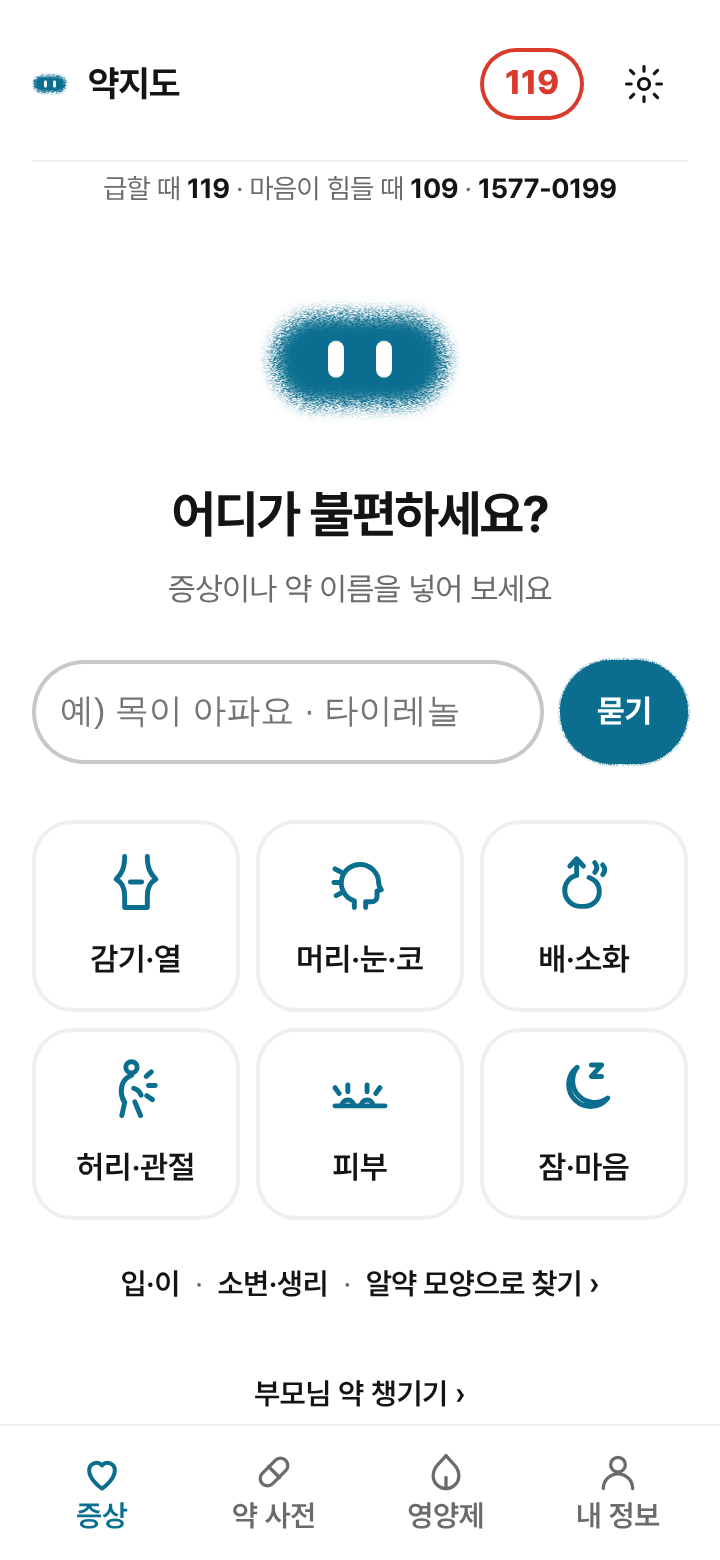
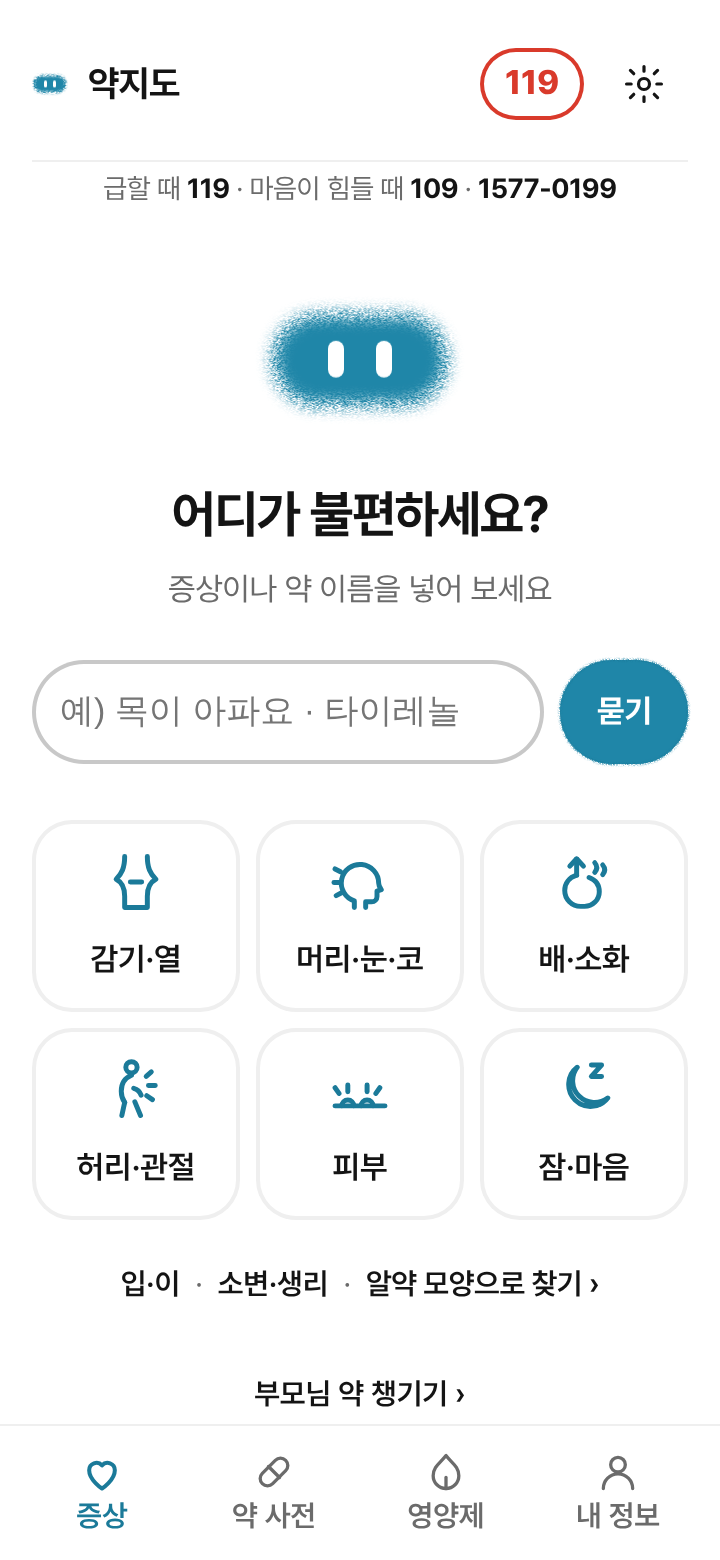
약지도 한가족: 잉크 판 처음 온 분 안내 화면 없이 첫 화면 · 강조색 #1B7A99·얼굴 #1F86A8 · 약관 링크 44px · design 첫 실행 시험 잉크/옛 판 나눔 — design 결함 0(두 판)
Claude-Session: https://claude.ai/code/session_01EnA5kC7cG7NGAyuaz7gY2Z

Changed region(s): [[0.7639, 0.4, 0.9472, 0.4923], [0.3972, 0.1846, 0.6111, 0.2769], [0.0611, 0.0308, 0.0917, 0.0615]]

diff --git a/yakjido/app-shell.html b/yakjido/app-shell.html
@@ -8074,7 +8074,7 @@ window.동의하기 = () => {
   let n = ''; try { n = sessionStorage.getItem(CONSENT_NEXT) || ''; sessionStorage.removeItem(CONSENT_NEXT); } catch (e) {}
   if (/^(consent|doc|login)(\/|\?|$)/.test(n)) n = '';
   HIST.length = 0;   /* 뒤로 가기가 동의 화면으로 돌아가지 않게 */
-  const to = n || (helloDone() ? 'home' : 'hello/1');
+  const to = n || (helloDone() || document.documentElement.classList.contains('ink') ? 'home' : 'hello/1');
   try { location.replace(location.href.split('#')[0] + '#/' + to); } catch (e) { go('/' + to); }
 };
 const 동의줄 = (k, t, s, L, 링크) => `<div class="cs-item"><button type="button" class="cs-row" role="checkbox" aria-checked="${!!동의칸[k]}" data-k="${k}" onclick="동의누름('${k}')"><span class="cs-bx">${I.check}</span><span class="cs-tx"><b><span class="cs-tag">필수</span>${t}</b><span>${s}</span></span></button>
@@ -8135,7 +8135,7 @@ const 잠김 = k => !!(window.구독 && !구독.열림(k));
 function 진료장(){ if (잠김('visitdoc')) { let n = 0; try { n = +localStorage.getItem('yakjido.visitdoc.n') || 0; } catch (e) {} if (n >= 1) return 구독.막힘('visitdoc'); try { localStorage.setItem('yakjido.visitdoc.n', String(n + 1)); } catch (e) {} } window.print(); }
 
 /* ───────── 시작 ───────── */
-try { if (!helloDone() && !location.hash) { location.hash = '#/hello/1'; } } catch (e) {}
+try { if (!helloDone() && !location.hash && !document.documentElement.classList.contains('ink')) { location.hash = '#/hello/1'; } } catch (e) {}   /* 11-17 한가족 §4 — 잉크 판은 안내 화면 없이 첫 화면부터 */
 /* 앱을 열 때 오늘 계획을 기록에 적고, 60일 지난 것을 치운다 */
 try { rollDay(); } catch (e) {}
 try { nativeInit(); } catch (e) {}

diff --git a/docs/yakjido/ink.css b/docs/yakjido/ink.css
@@ -3,6 +3,7 @@
    원칙: 흰 바탕 · 먹색 글 · 강조색 하나(바다 파랑 = 지금 --primary) · 그림자·그라데이션·연한 색 상자·장식 아이콘 걷기 ·
          카드 대신 여백과 1px 선 · 알약 단추 · 빨강은 응급에만. 흐린 글은 흰 바탕 4.5:1 넘게(#6B6B6B). */
 html.ink{
+  --primary:#1B7A99; --primary-deep:#155F78; --primary-rgb:27,122,153;   /* 11-17 한가족 §2-1 — 약지도 강조색(글·단추·링크) 흰 바탕 4.89:1 · 얼굴 그림만 #1F86A8 */
   --surface:#FFFFFF; --card:#FFFFFF; --ground:#FFFFFF;
   --text:#141414; --body:#141414; --muted:#6B6B6B; --faint:#707070;
   --hairline:#EFEFEF; --rim:#C8C8C8; --tint:#FFFFFF; --tint2:#FFFFFF;
@@ -218,3 +219,4 @@ html.ink .ink-119.tel-none{display:none}
 html.ink .ink-gear{display:inline-flex;align-items:center;justify-content:center;width:44px;height:44px;border:0;background:none;color:var(--text);cursor:pointer}
 html.ink .ink-legal{margin:28px 0 8px;font-size:.8125rem;color:var(--muted);text-align:center;line-height:1.6}
 html.ink .ink-legal a{color:var(--text);text-decoration:underline}
+html.ink .ink-legal a{display:inline-flex;align-items:center;min-height:44px;padding:0 6px}

diff --git a/docs/yakjido/sw.js b/docs/yakjido/sw.js
@@ -9,7 +9,7 @@
                        판이 같으면 캐시 그대로, 판이 바뀌면 새로 받아 넣고 옛 판은 지운다(prune).
    판 없는 옛 주소는 «캐시 먼저» — 한 번 받은 것은 즉시 열리고, 뒤에서 조용히 새로 받아 둔다.
    인터넷이 안 되면 어느 캐시에든 있는 사본을 준다(5-01 — 첫 방문 뒤 비행기 모드에서 본문이 안 뜨던 것). */
-const CACHE = 'yakjido-2026-11-17T12:21-5f2158c0';
+const CACHE = 'yakjido-2026-11-17T13:01-d36635e5';
 const DATA = 'yakjido-data-v1';
 /* 기내 모드·바깥 파일 0(10-27) — 글꼴(fonts/)·로그인 프로그램(vendor/)은 배포 묶음 안. 판이 박힌 꾸러미라 내용이 안 바뀌니 «캐시 먼저», 앱 판이 바뀌어도 지우지 않는다(EXT).
    바깥 주소는 하나도 담지 않는다 — 서버 응답(supabase REST)·날씨는 그대로 지나간다(09-22 원칙) */

diff --git a/docs/yakjido/srv.js b/docs/yakjido/srv.js
@@ -1697,7 +1697,7 @@
 })();
 /* ▲▲ 잉크 얼굴 부품 끝 ▲▲ */
 /* 11-17 잉크 판일 때만 — 얼굴·번진 면. 색 토큰은 약지도 ink.css 가 맡는다(공용 토큰의 흐린 글 #8A8A8A 는 흰 바탕 4.5:1 미달이라 html[data-ink] 를 쓰지 않는다) */
-try { if (document.documentElement.classList.contains('ink')) 잉크.설치({ 색: '#0B6E8F' }); } catch (e) {}
+try { if (document.documentElement.classList.contains('ink')) 잉크.설치({ 색: '#1F86A8' })   /* 11-17 한가족 — 알약 얼굴은 로고와 같은 물색 */; } catch (e) {}
 
 /* 11-13 메디나눔 홈 2단계 — 수첩의 혈압·혈당(P8)을 사용자가 누를 때만 「내 홈」으로 넘긴다. 스위치 꺼짐(법무 판단 전 비공개).
    원래 기록은 이 앱이 정본 — 꾸러미는 사본 보기용. 모양은 부품이 다시 검사한다 */

diff --git a/yakjido/ink.css b/yakjido/ink.css
@@ -219,3 +219,4 @@ html.ink .ink-119.tel-none{display:none}
 html.ink .ink-gear{display:inline-flex;align-items:center;justify-content:center;width:44px;height:44px;border:0;background:none;color:var(--text);cursor:pointer}
 html.ink .ink-legal{margin:28px 0 8px;font-size:.8125rem;color:var(--muted);text-align:center;line-height:1.6}
 html.ink .ink-legal a{color:var(--text);text-decoration:underline}
+html.ink .ink-legal a{display:inline-flex;align-items:center;min-height:44px;padding:0 6px}

diff --git a/yakjido/tests/design.py b/yakjido/tests/design.py
@@ -142,7 +142,12 @@ def main():
         # ⑧ 첫 실행(11-10 사진 대조) — 저장소 빈 새 기기: 「모두 동의」 → 다시 그림 → 2초 → 「시작하기」가 눌리고 넘어가는지 · 말과 나라 창 위 빈 띠 · 칩 글자 크기
         for w in (360, 390):
             ctx = b.new_context(viewport={'width': w, 'height': 780}); pg = ctx.new_page()
-            pg.goto(URL); pg.wait_for_selector('.cs-all', timeout=20000); pg.click('.cs-all')
+            if os.environ.get('YJ_INK') != '0':   # 11-17 잉크 판(기본) — 첫 화면에 동의 벽 없음 · 동의는 처음 저장할 때(그 화면은 아래에서 따로 연다)
+                pg.goto(URL); pg.wait_for_selector('.ask-in', timeout=20000)
+                if '#/consent' in pg.url: fails.append(f'⑧ 첫 실행 {w}: 잉크 판인데 동의 벽이 먼저 뜸')
+                pg.goto(URL + '#/consent')
+            else: pg.goto(URL + '?old=1')   # 빈 새 기기는 잉크가 기본 — 옛 판 첫 실행은 ?old=1
+            pg.wait_for_selector('.cs-all', timeout=20000); pg.click('.cs-all')
             pg.evaluate("()=>route()"); pg.wait_for_timeout(2000)
             ok = pg.evaluate("()=>{const g=document.getElementById('csGo');return !!g&&!g.disabled&&document.querySelector('.cs-all').getAttribute('aria-checked')==='true'}")
             if not ok: fails.append(f'⑧ 첫 실행 {w}: 「모두 동의」가 다시 그린 뒤 풀림 — 「시작하기」가 잠김')
